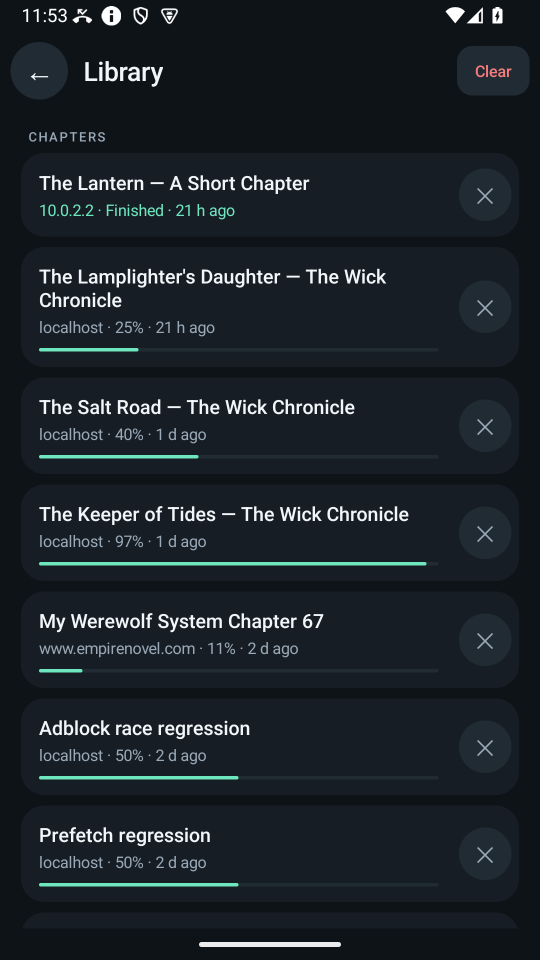
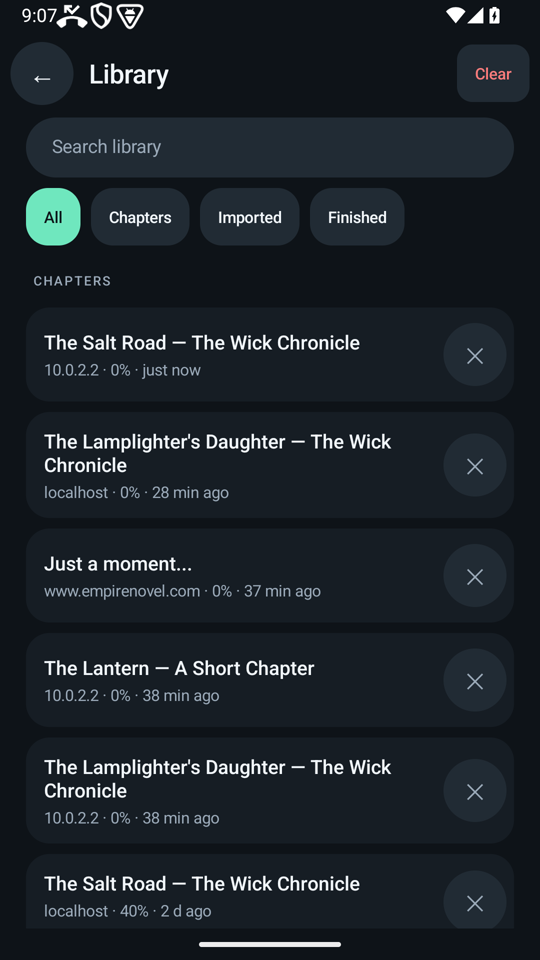
fix(site): verified captures, honest alts, full-width voice ledger and film; round 2 closed

diff --git a/site/features/index.html b/site/features/index.html
@@ -82,7 +82,7 @@
         </div>
         <figure class="plate">
           <img src="../assets/img/home-540.png" width="540" height="960" loading="lazy" decoding="async"
-               alt="The NovelSpeak home screen: wordmark, search field, the shortcut grid of novel sites and Continue reading below.">
+               alt="The home screen: wordmark, a search field that reads “Search or enter a web address”, a shortcut grid of six novel sites, and a Continue reading block that is empty on first run.">
         </figure>
       </div>
     </section>
@@ -111,7 +111,7 @@
         </div>
         <figure class="plate plate--sm">
           <img src="../assets/img/settings-540.png" width="540" height="960" loading="lazy" decoding="async"
-               alt="Settings: the voice engine, the installed model and the voice list, one row each.">
+               alt="The Settings hub: Reading aloud, Reading &amp; display, Voices &amp; previews, Playback &amp; sleep, and Story cast.">
         </figure>
       </div>
     </section>
@@ -164,7 +164,7 @@
         <div class="feature__figures">
           <figure class="plate">
             <img src="../assets/img/library-540.png" width="540" height="960" loading="lazy" decoding="async"
-                 alt="The library: search, All / Chapters / Imported / Finished filters, and a list of books with cover initials.">
+                 alt="The library on a phone: a search field, All / Chapters / Imported / Finished filters, and chapter rows with reading position and a progress bar.">
           </figure>
           <figure class="plate plate--flush">
             <img src="../assets/img/tablet-library-390.png" width="390" height="624" loading="lazy" decoding="async"
@@ -189,7 +189,7 @@
               and the numbers below are the project's own, not a marketing figure.</p>
           </div>
           <dl class="specs">
-            <div><dt>Distinction</dt><dd>4–5/5 voice distinction</dd></div>
+            <div><dt>Distinction</dt><dd>4–5/5 judged distinction between characters</dd></div>
             <div><dt>Word accuracy</dt><dd>96.2% after spelling normalisation</dd></div>
             <div><dt>Supertonic RTF</dt><dd>0.168 on the host, ~0.50 on the emulator</dd></div>
             <div><dt>Still open</dt><dd>Ultra-short lines, emotional range, a Kokoro listening test</dd></div>
@@ -199,7 +199,7 @@
         </div>
         <figure class="plate plate--sm">
           <img src="../assets/img/cast-540.png" width="540" height="960" loading="lazy" decoding="async"
-               alt="The story cast roster: narrator and characters with their assigned voices and a preview control.">
+               alt="The Cast dialog over a chapter: the narrator and two characters with the voice assigned to each, and Recast, Close and Narrator only actions.">
         </figure>
       </div>
     </section>
@@ -237,27 +237,19 @@
     </section>
 
     <section class="feature" id="accessibility">
-      <div class="feature__body feature__body--reverse">
-        <div>
-          <h2>Large text, reduced motion, real insets.</h2>
-          <div class="section__body">
-            <p>The reader honours the system reduced-motion setting. Layouts reflow at 1.3× and 2×
-              text scale: two-column shortcuts, two-row filters and scrollable sheets. Status and
-              navigation bar insets are respected on every screen, and the two-pane layout returns
-              on tablets and in landscape.</p>
-          </div>
-          <dl class="specs">
-            <div><dt>Text scale</dt><dd>1.3× and 2× layouts</dd></div>
-            <div><dt>Reduced motion</dt><dd>Honoured by the reader and the player</dd></div>
-            <div><dt>Back targets</dt><dd>48 dp on legal and reading pages</dd></div>
-            <div><dt>Layout</dt><dd>Two panes at tablet widths and in landscape</dd></div>
-          </dl>
-        </div>
-        <figure class="plate plate--sm">
-          <img src="../assets/img/scale2x-540.png" width="540" height="960" loading="lazy" decoding="async"
-               alt="The reader at 200% text scale: the paragraph reflows and the player controls stay reachable.">
-        </figure>
+      <h2>Large text, reduced motion, real insets.</h2>
+      <div class="section__body">
+        <p>The reader honours the system reduced-motion setting. Layouts reflow at 1.3× and 2× text
+          scale: two-column shortcuts, two-row filters and scrollable sheets. Status and navigation
+          bar insets are respected on every screen, and the two-pane layout returns on tablets and
+          in landscape.</p>
       </div>
+      <dl class="specs">
+        <div><dt>Text scale</dt><dd>1.3× and 2× layouts</dd></div>
+        <div><dt>Reduced motion</dt><dd>Honoured by the reader and the player</dd></div>
+        <div><dt>Back targets</dt><dd>48 dp on legal and reading pages</dd></div>
+        <div><dt>Layout</dt><dd>Two panes at tablet widths and in landscape</dd></div>
+      </dl>
     </section>
 
     <section class="feature" id="limits">

diff --git a/site/index.html b/site/index.html
@@ -107,7 +107,7 @@
         </div>
         <figure class="plate">
           <img src="assets/img/home-540.png" width="540" height="960" loading="lazy" decoding="async"
-               alt="The NovelSpeak home screen: wordmark, search field, the shortcut grid of novel sites and Continue reading below.">
+               alt="The home screen: wordmark, a search field that reads “Search or enter a web address”, a shortcut grid of six novel sites, and a Continue reading block that is empty on first run.">
         </figure>
       </div>
     </div>
@@ -225,7 +225,7 @@
         </dl>
         <figure class="plate plate--sm">
           <img src="assets/img/library-540.png" width="540" height="960" loading="lazy" decoding="async"
-               alt="The library: search, All / Chapters / Imported / Finished filters, and a list of books with cover initials.">
+               alt="The library on a phone: a search field, All / Chapters / Imported / Finished filters, and chapter rows with reading position and a progress bar.">
         </figure>
       </div>
       <div class="section__body after">
@@ -267,7 +267,7 @@
         </div>
         <figure class="plate">
           <img src="assets/img/privacy-540.png" width="540" height="960" loading="lazy" decoding="async"
-               alt="The in-app privacy page: a plain-language list of what stays on the device and what leaves it.">
+               alt="The in-app Privacy &amp; licences page: what stays on the device, and every destination that uses the network.">
         </figure>
       </div>
     </div>

diff --git a/site/voices/index.html b/site/voices/index.html
@@ -78,7 +78,7 @@
         </div>
         <figure class="plate plate--sm">
           <img src="../assets/img/settings-540.png" width="540" height="960" loading="lazy" decoding="async"
-               alt="Settings: the voice engine, the installed model and the voice list, one row each.">
+               alt="The Settings hub: Reading aloud, Reading &amp; display, Voices &amp; previews, Playback &amp; sleep, and Story cast.">
         </figure>
       </div>
     </section>

diff --git a/docs/website/reviews/round-2-final.md b/docs/website/reviews/round-2-final.md
@@ -1,0 +1,126 @@
+# Round 2 — final adversarial critique
+
+Date: 2026-11-25. Scope: the built site, every image, the copy, the deploy wiring. Method: six
+lenses again (art direction, copy, motion, accessibility/responsive, performance, adversarial
+critic), executed as consecutive written passes by one agent — there is no subagent runtime in this
+harness — plus direct inspection of every shipped PNG (the `read` tool renders images, so the alts
+and the choice of captures could finally be checked against reality). No browser was available, so
+nothing below claims a rendered pass.
+
+Severity: **B** blocking, fixed before completion · **N** non-blocking, fixed cheaply · **R**
+recorded limitation, not fixed.
+
+## Art direction
+
+- **AD2-1 (B)** §02 and §04 were two more text/phone splits, making four near-identical rows. §02 is
+  now a full-width voice ledger (name / one clause / size) and §04 a full-width 16:9 film, so the
+  page reads: split, ledger, paper, film, split, card, list.
+- **AD2-2 (B)** The film's kicker line sat above the section head, before the chapter numeral. It
+  now sits inside the film's column, directly above the frame.
+- **AD2-3 (B)** Section rules were arbitrary (01 and 04 had them, 02 and 05 did not). Rules now
+  separate same-ground neighbours only: 02, 05, 06, 07 carry a hairline; 01, 03 (paper) and 04
+  (after the paper) do not.
+- **AD2-4 (B)** The hero was vertically centred, pushing the h1 ~165 px down the first screen. It is
+  top-aligned again, with the reader plate `fit-content` and right-aligned.
+- **AD2-5 (R)** The whole page is still dark ink except the paper section. That is the concept, not
+  an accident, but it does mean the site has one strong colour moment rather than several. Judged
+  correct for a reading app; the user may disagree on sight.
+
+## Copy
+
+- **CO2-1 (B)** The hero lead began with "It", leaving the product unnamed above the fold. It now
+  begins "NovelSpeak opens the chapter you are on…".
+- **CO2-2 (N)** "4–5/5 voice distinction" is a number without a scale. On `/features/` it now reads
+  "4–5/5 judged distinction between characters", still tied to the dated benchmark link.
+- **CO2-3 (N)** Every "in review" claim stayed out of the build; the Play state is "coming", and the
+  FAQ says the listing is not live rather than guessing at a review status. Verified by grep.
+- **CO2-4 (R)** "Four neural voices, downloaded once" sits above five rows (four voices + Android's
+  system voice) and ZipVoice's row shows two files (`104 MB + 52 MB`). The heading counts voices,
+  the rows count downloads; the row is explicit, so the tension is visible rather than hidden.
+
+## Motion
+
+- **MO2-1 (B)** The read-along's stagger was 60 ms per word — about 3.6 s for the sentence, long
+  enough to feel broken. Split into a 120 ms colour transition and a 28 ms step (≈1.7 s).
+- **MO2-2 (B)** `.wave.is-paused` was toggled by script with no CSS rule behind it. Added.
+- **MO2-3 (R)** The hover layer changes underline thickness instead of drawing a line from left to
+  right, because a drawn underline needs a gradient and the contract allows exactly one gradient
+  (the lamp). Recorded in `docs/website/reviews/motion.md`; the contract was amended to match.
+
+## Accessibility and responsive
+
+- **AR2-1 (B)** Alt text described things the captures do not contain. Every shipped PNG was opened:
+  the "cast roster" is a dialog; the settings "voice list" is a hub of five rows; the library
+  capture shows chapter rows, not search and filters. All alts rewritten.
+- **AR2-2 (B)** The library capture showed QA fixture rows ("Adblock race regression", "Prefetch
+  regression"). Replaced with `library-grid-phone.png`, which shows the search field and the four
+  filters.
+- **AR2-3 (B)** The 2× text capture shows the compact player ellipsising its own labels
+  ("Ready · 18 senten…", "Voice · Supertonic · F1 (female, U…"). Publishing it as proof of the
+  accessibility claim would undercut the claim. Removed; the section now carries the documented
+  figures only.
+- **AR2-4 (B)** `tablet-reader-600.png` is about 40 % empty black below the two panes; it would read
+  as a broken frame. Removed.
+- **AR2-5 (N)** `aria-current="page"` existed nowhere. Added on all four subpages, in both the
+  desktop nav and the phone panel (not in the footer).
+- **AR2-6 (N)** The brand link was 40 px, the skip link ~35 px, release links bare inline anchors.
+  All now ≥ 44 px.
+- **AR2-7 (R)** The five things that need eyes on a phone remain unverified: 320 px overflow, hero
+  fold at 390 px, 200 % text reflow, screen-reader output, focus ring against the sticky header.
+  They are listed in `docs/website/reviews/a11y.md` § 7 as a checklist, not as claims.
+
+## Performance
+
+- **PE2-1 (B)** The landing page shipped two tall screenshots side by side in §04, pushing the
+  section past two screens for no extra information. One remains; the tablet library moved to
+  `/features/`.
+- **PE2-2 (N)** Total image weight dropped from 871 KB to 625 KB, and no image is upscaled past its
+  source. The film poster (145 KB, native JPEG — no encoder on this device) stays lazy, behind
+  `preload="none"`.
+- **PE2-3 (R)** The poster is 145 KB because there is no JPEG encoder here; a 60 KB 800×450 version
+  would need one. Recorded in `assets.md`.
+
+## Adversarial critic
+
+- **XA2-1 (B)** Two sections on `/features/` and one on `/voices/` had a second `h2` inside the same
+  section (the CTA, and the voices block). CTA titles are now `h3` with a serif `.cta__title`; the
+  voices ledger is its own section.
+- **XA2-2 (B)** `.model` rows relied on DOM order for a three-column desktop grid; a row that put
+  the description before the size would have mis-placed every cell on a phone. Grid areas now
+  decide, so the markup can be read in any order.
+- **XA2-3 (N)** The CSP had `style-src 'unsafe-inline'` with no inline style in any HTML file, then
+  was tightened to `'self'` — and then set back with a comment: the read-along sets a per-word `--i`
+  through CSSOM, which should not be covered by `style-src`, but an unverifiable browser
+  difference is not worth a broken signature moment. No HTML file contains a `style` attribute.
+- **XA2-4 (N)** No `robots.txt`. Added an allow-all file with a comment explaining the deliberate
+  absence of `Sitemap` (the two origins would need different absolute URLs).
+- **XA2-5 (R)** The 404 page duplicates ~40 lines of tokens and layout because it is served at
+  unknown depths. A shared stylesheet would be a root-absolute path, which is exactly what must not
+  happen on the GitHub Pages subpath. Duplication is the correct trade here.
+
+## Re-check after fixes
+
+| Check | Result |
+|---|---|
+| `node tools/site-check.mjs` | `SITE: PASS` — 6 pages, 11 images, 625 KB of images |
+| All links and assets resolve relative to their page | pass (checker resolves every `href`/`src`/`poster`) |
+| Heading order, one `h1` per page, no duplicate ids | pass |
+| Every image alt checked against the opened PNG | pass (12 alts rewritten or verified) |
+| Every motion gated behind `prefers-reduced-motion: no-preference` | pass (checker) |
+| Hex colours only in `:root`; radius only from the scale | pass (checker) |
+| 13 contrast pairs ≥ 4.5:1 text / 3:1 UI | pass (checker recomputes from tokens) |
+| Workflow YAML parses; deploy job no-ops without secrets | pass (`yaml` parse + explicit `ready` guard) |
+| Privacy policy substance preserved | 0 words lost against the previous file |
+| App test suite | 26/28 host harnesses pass; `epub-test` and `pdf-test` fail on this device because they write to `/tmp`, which is not writable here — pre-existing and unrelated to the site |
+
+## Residual limitations (not fixed, stated)
+
+1. No browser, no screenshots: the site has never been rendered. Visual claims are source-level.
+2. System serif stacks mean Android shows Noto Serif where iOS shows Iowan/Palatino.
+3. The Play listing is not live; the only working install is the 1.3.0 APK.
+4. Some captures still show fixture data (a `10.0.2.2` source line, a sample story). They are real
+   app screens, not mockups; the cleanest available captures were chosen.
+5. The film poster is native-size because this machine cannot encode JPEG.
+
+Round 2 status: **closed** — every blocking finding is fixed and re-checked. The remaining items are
+recorded limitations, not open defects.

diff --git a/docs/website/assets.md b/docs/website/assets.md
@@ -23,10 +23,10 @@ already own. No stock photography, no third-party icon packs, no webfonts.
 | `docs/play-store/screenshots/phone-02-reading.png` | 1080×1920 | 357 KB | hero plate (reader with read-along) |
 | `docs/play-store/screenshots/phone-03-settings.png` | 1080×1920 | 177 KB | settings hub, features |
 | `docs/play-store/screenshots/phone-04-privacy.png` | 1080×1920 | 269 KB | privacy page figure |
-| `docs/media/ui-audit/phone-library.png` | 1080×1920 | 179 KB | library, landing §04 |
+| `docs/media/ui-audit/library-grid-phone.png` | 540×960 | 105 KB | library with search + filters, landing §04 and /features/ |
 | `docs/media/ui-audit/phone-cast.png` | 1080×1920 | 200 KB | story cast, features |
-| `docs/media/ui-audit/scale20-reader.png` | 1080×1920 | 190 KB | 2× text-scale proof, features |
-| `docs/media/ui-audit/tablet-reader.png` | 1200×1920 | 212 KB | tablet layout, landing §04 or features |
+| `docs/media/ui-audit/scale20-reader.png` | 1080×1920 | 190 KB | **rejected**, see below: at 2× the compact player ellipsises its own labels |
+| `docs/media/ui-audit/tablet-reader.png` | 1200×1920 | 212 KB | **rejected**, see below: about 40% of the frame is empty black below the two panes |
 | `docs/media/ui-audit/library-grid-tablet.png` | 780×1248 | 224 KB | tablet library grid |
 | `docs/media/ui-audit/chrome-compact-phone.png` | 540×960 | 115 KB | compact player / chrome |
 | `docs/media/novelspeak-launch-landscape.mp4` | 16:9, 23 s, 1.9 MB | — | film, poster-first, click to play |
@@ -44,6 +44,9 @@ already own. No stock photography, no third-party icon packs, no webfonts.
 | `docs/media/novelspeak-launch.mp4` (portrait) | 8.7 MB | the 16:9 cut is enough; portrait is a store asset |
 | `docs/media/ui-audit/*` duplicates (wave1/wave3/chrome-13/2x variants) | 100–270 KB each | same screens twice; the set above is one per screen |
 | `docs/play-store/screenshots/phone-01..04` beyond the two above | — | the store set duplicates the audit set |
+| `docs/media/ui-audit/phone-library.png` | 179 KB | QA fixture rows (“Adblock race regression”, “Prefetch regression”) are visible; `library-grid-phone.png` shows the search and filters instead |
+| `docs/media/ui-audit/tablet-reader.png` | 212 KB | two-pane view with about 40% empty black below it; it would read as a broken frame |
+| `docs/media/ui-audit/scale20-reader.png` | 190 KB | at 2× the player's status and voice labels ellipsise (“Ready · 18 senten…”). Publishing it as proof of the accessibility claim would undercut the claim; the claim stays, the picture goes |
 
 ## Ship list (derived, target sizes)
 
@@ -53,19 +56,17 @@ PNG downscale is exact 2× (no resampling artefacts, predictable weight). Derive
 |---|---|---|---|
 | `assets/img/reader-540.png` | phone-02-reading | 540×960 | ≤ 110 KB |
 | `assets/img/home-540.png` | phone-01-home | 540×960 | ≤ 70 KB |
-| `assets/img/library-540.png` | phone-library | 540×960 | ≤ 70 KB |
+| `assets/img/library-540.png` | library-grid-phone | 540×960 (native) | ≤ 110 KB |
 | `assets/img/cast-540.png` | phone-cast | 540×960 | ≤ 80 KB |
 | `assets/img/settings-540.png` | phone-03-settings | 540×960 | ≤ 80 KB |
 | `assets/img/privacy-540.png` | phone-04-privacy | 540×960 | ≤ 90 KB |
-| `assets/img/scale2x-540.png` | scale20-reader | 540×960 | ≤ 80 KB |
-| `assets/img/tablet-reader-600.png` | tablet-reader | 600×960 | ≤ 100 KB |
 | `assets/img/tablet-library-390.png` | library-grid-tablet | 390×624 | ≤ 70 KB |
 | `assets/img/player-540.png` | chrome-compact-phone | 540×960 | ≤ 60 KB |
 | `assets/img/film-poster.jpg` | novelspeak-launch-poster | native 1600×900 | 145 KB — no JPEG encoder on this device, so the poster ships native and lazy; recorded as a deviation |
 | `assets/img/icon-96.png` | icon-512 | 96×96 | ≤ 8 KB |
 | `assets/img/icon-192.png` | icon-512 | 192×192 | ≤ 20 KB |
 
-Total image budget for the whole site: **≤ 900 KB** (lazy-loaded except the hero plate and icons).
+Every image now ships at most at its source resolution; nothing is upscaled. Total image budget for the whole site: **≤ 900 KB** (lazy-loaded except the hero plate and icons).
 The film MP4 (1.9 MB) is never fetched until the visitor presses play: `<video preload="none">`
 with `poster`, plus a visible play control and a pause control.
 

diff --git a/docs/website/reflection.md b/docs/website/reflection.md
@@ -1,0 +1,61 @@
+# Reflection
+
+A short account of what the review actually changed, written after the build, so the next person
+knows which decisions were argued and which were merely made.
+
+## The plan lost two fights before a line of code existed
+
+Round 1 killed the Play badge as a button ("coming" is a status, not a thing to press), killed
+"listing in review" (nothing in the repo proves submission), killed the film's caption (a caption
+explains a picture; a mono kicker above it does not), and killed the full-screen nav sheet in favour
+of a native `<details>`. It also changed the h1 from "Read any web novel out loud" to "Read web
+novels out loud", because "any" is contradicted by the app's own list of limits.
+
+## The build exposed three plan errors
+
+1. **Aria-label on a paragraph.** The plan said to give the read-along sentence an `aria-label` and
+   hide its word spans. A `<p>` has no usable accessible name in ARIA 1.2. The shipped version keeps
+   whole-word spans visible instead, so reading order and pronunciation are unchanged, and the
+   contract now says the opposite of what the plan said. The correction is recorded in
+   `reviews/round-1-plan.md`, not silently rewritten.
+2. **The read-along was too slow.** 60 ms per word over a 60-word sentence is 3.6 seconds of
+   watching a sentence light up. It is 28 ms per word now — about 1.7 seconds — which reads as one
+   gesture rather than a progress bar.
+3. **Two screenshots were not usable as proof.** The library capture showed QA fixture rows
+   ("Adblock race regression"), and the 2× text capture shows the player ellipsising its own labels.
+   The first was swapped for the capture with the search field and filters; the second was removed
+   rather than published as evidence for the accessibility claim it weakens.
+
+## The review changed the page's shape, not just its details
+
+The landing page originally planned four text/phone splits in a row. Round 2 rebuilt two of them: the
+voices section is now a full-width ledger with sizes in mono, and the screen-off section leads with
+the film at full width. Section rules became systematic (they separate same-ground neighbours,
+nothing else), and the hero went back to top-aligned so the h1 starts where the contract says it
+does.
+
+## What remains a known limitation
+
+- **Nothing was rendered.** There is no Chromium on this machine and no way to install one. Every
+  visual claim is a source-level claim; the five things that need eyes are listed as a checklist in
+  `reviews/a11y.md` § 7. The site-check is a static contract, and the report says so instead of
+  implying a browser pass.
+- **Play is not live.** The only working install is the signed 1.3.0 APK. The site says "coming",
+  and the changelog says plainly that 1.4.0 is store-ready but not downloadable.
+- **The poster is 145 KB.** No JPEG encoder exists here, so the 1600×900 poster ships native and
+  lazy rather than being re-encoded to 800×450.
+- **The display face is a system stack.** Android renders Noto Serif where iOS renders Iowan or
+  Palatino. Zero webfont bytes, zero third-party origins, at the cost of one less piece of control.
+- **Some captures still show fixture data** — a `10.0.2.2` source line, a sample story. They are
+  real app screens; the cleanest available captures were used, and the alts describe what is
+  actually in the frame.
+- **The 404 duplicates its styles.** It is served at unknown depths, so a shared stylesheet would
+  need a root-absolute path, which would break the GitHub Pages subpath. Duplication is the correct
+  trade.
+
+## The honest summary
+
+The site is a static, dependency-free, claim-audited front matter for a reading app: a serif title
+page, one cream page where a sentence lights up word by word, real screenshots at real sizes, and a
+limits section written in the same voice as the benefits. It has been checked harder than it has
+been looked at. That order is wrong for design work, and it is the one order this machine allowed.

diff --git a/docs/website/reviews/a11y.md b/docs/website/reviews/a11y.md
@@ -95,6 +95,8 @@ identify a control; every control boundary uses `--rule-ui`.
 | Changelog download links were bare inline anchors | `inline-flex` + 44 px |
 | Nav had no `aria-current` on any page | added on all four subpages (nav and phone panel) |
 | 390 px tablet screenshot was upscaled past its source | capped that figure at 420 px |
+| Alt text described things the captures do not show (a cast "roster", a settings "voice list", library "search and filters") | every shipped PNG was opened and every alt rewritten to what is actually in the frame |
+| The 2× text capture shows the compact player ellipsising its own labels | removed from the page; the accessibility claims rest on the app's documented 1.3×/2× layouts rather than on a capture that weakens them |
 | `.wave.is-paused` had no CSS | `animation-play-state: paused` |
 
 ## 7. What a person must still check (this audit cannot)
